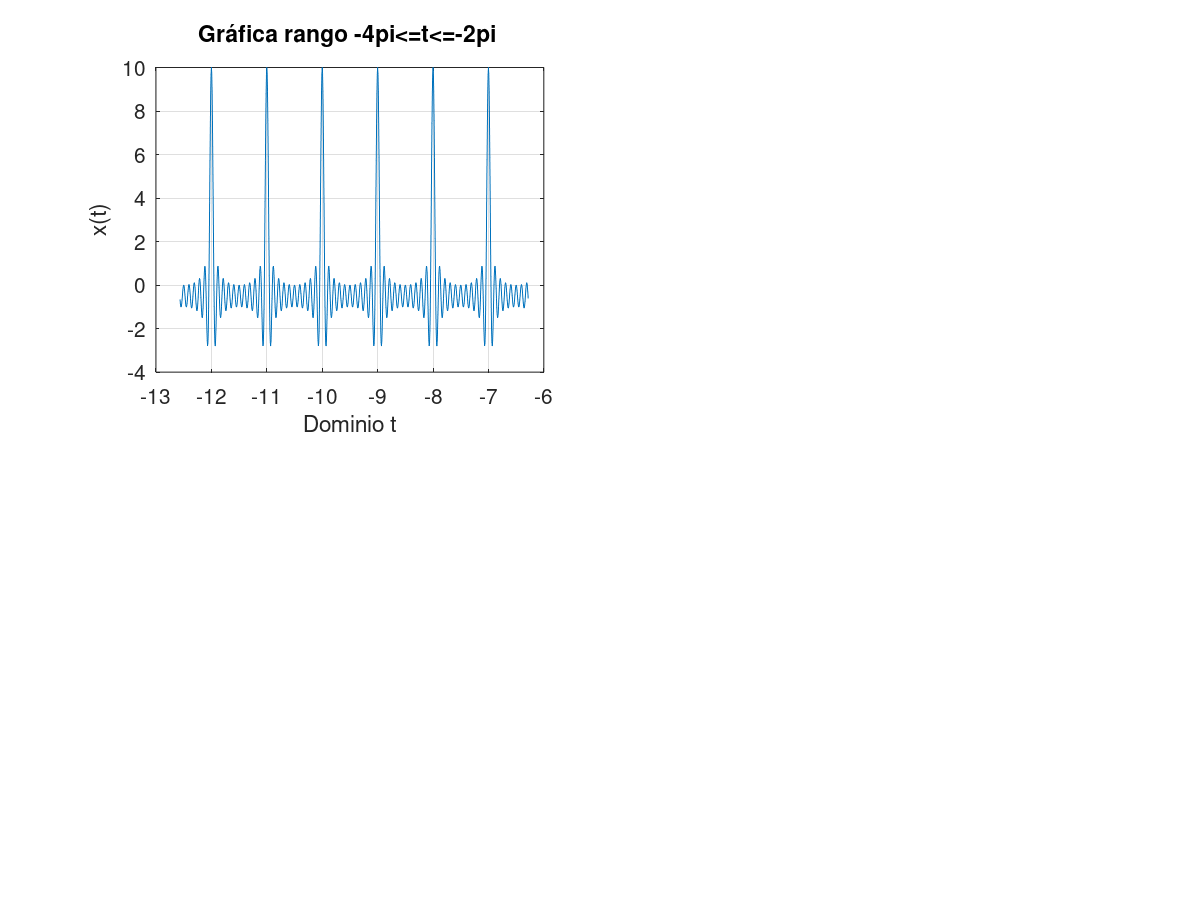
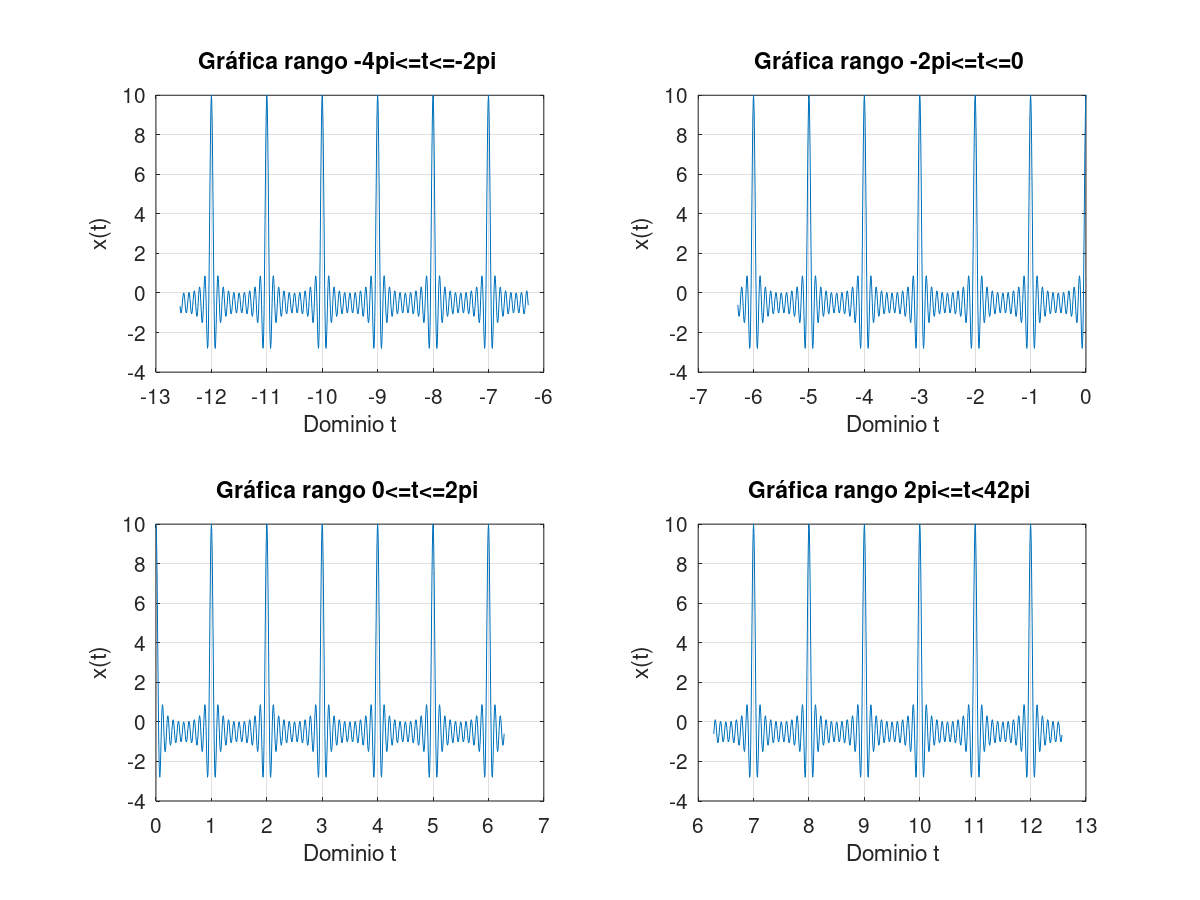
Ejercicio 4 correcto

diff --git a/html/prueba.html b/html/prueba.html
@@ -85,7 +85,6 @@ h2 a, h2 a:visited {
 <li><a href="#node2">Resolución del problema 1.2-2</a></li>
 <li><a href="#node3">Resoluciòn del problema 1.11-1</a></li>
 <li><a href="#node4">Ejercicio 4:</a></li>
-<li><a href="#node5">TEST</a></li>
 </ul>
 <h2><a id="node1"> 1.11 Working with functions.</a></h2>
 <p>Working with functions is fundamental to signals and systems applications. MATLAB provides several methods of defining and evaluating functions. An understanding and proficient use of these methods are therefore necessary and beneficial.</p>
@@ -336,9 +335,8 @@ grid on;</pre>
 <p>para cuatro rangos (figura 2x2). Los ejes deben mostrarse en el origen además de la edición de su preferencia.
 Procedimiento:</p>
 
-<p><b>Primer rango</b></p>
-
-<pre class="oct-code">subplot(2,2,1);
+<pre class="oct-code">clf;
+subplot(2,2,1);
 y=0;
 t=linspace(-4*pi,-2*pi,1000);
 <span class="keyword">for</span> k=1:10
@@ -351,11 +349,11 @@ grid on;
 ax = gca;
 xlabel(<span class="string">'Dominio t'</span>);
 ylabel(<span class="string">'x(t)'</span>);
-title(<span class="string">'Gráfica rango -4pi&lt;=t&lt;=-2pi '</span>);</pre>
-<img src="prueba-13.png" alt="prueba-13.png">
-<p><b>Segundo rango</b></p>
+title(<span class="string">'Gráfica rango -4pi&lt;=t&lt;=-2pi '</span>);
 
-<pre class="oct-code">subplot(2,2,2);
+
+
+subplot(2,2,2);
 y=0;
 t=linspace(-2*pi,0,1000);
 <span class="keyword">for</span> k=1:10
@@ -369,11 +367,11 @@ ax = gca;
 xlabel(<span class="string">'Dominio t'</span>);
 ylabel(<span class="string">'x(t)'</span>);
 
-title(<span class="string">'Gráfica rango -2pi&lt;=t&lt;=0 '</span>);</pre>
-<img src="prueba-14.png" alt="prueba-14.png">
-<p><b>Tercer rango</b></p>
+title(<span class="string">'Gráfica rango -2pi&lt;=t&lt;=0 '</span>);
 
-<pre class="oct-code">subplot(2,2,3);
+
+
+subplot(2,2,3);
 y=0;
 t=linspace(0,2*pi,1000);
 <span class="keyword">for</span> k=1:10
@@ -386,11 +384,11 @@ grid on;
 ax = gca;
 xlabel(<span class="string">'Dominio t'</span>);
 ylabel(<span class="string">'x(t)'</span>);
-title(<span class="string">'Gráfica rango 0&lt;=t&lt;=2pi '</span>);</pre>
-<img src="prueba-15.png" alt="prueba-15.png">
-<p><b>Cuarto rango</b></p>
+title(<span class="string">'Gráfica rango 0&lt;=t&lt;=2pi '</span>);
 
-<pre class="oct-code">subplot(2,2,4);
+
+
+subplot(2,2,4);
 y=0;
 t=linspace(2*pi,4*pi,1000);
 <span class="keyword">for</span> k=1:10
@@ -404,32 +402,7 @@ ax = gca;
 xlabel(<span class="string">'Dominio t'</span>);
 ylabel(<span class="string">'x(t)'</span>);
 title(<span class="string">'Gráfica rango 2pi&lt;=t&lt;42pi '</span>);</pre>
-<img src="prueba-16.png" alt="prueba-16.png"><h2><a id="node5">TEST</a></h2>
-<pre class="oct-code">clf;
- x = 0:10;
- ax(1) = subplot (221);
- set (ax(1), <span class="string">"tag"</span>, <span class="string">"1"</span>);
- plot (x, rand (3, 11));
- title (<span class="string">"x &amp; y labels &amp; ticklabels"</span>);
- xlabel xlabel;
- ylabel ylabel;
- ax(2) = subplot (222);
- set (ax(2), <span class="string">"tag"</span>, <span class="string">"2"</span>);
- plot (x, rand (3, 11));
- title (<span class="string">"no labels"</span>);
- axis (<span class="string">"nolabel"</span>,<span class="string">"tic"</span>);
- ax(3) = subplot (223);
- set (ax(3), <span class="string">"tag"</span>, <span class="string">"3"</span>);
- plot (x, rand (3, 11));
- title (<span class="string">"no labels"</span>);
- axis (<span class="string">"nolabel"</span>,<span class="string">"tic"</span>);
- ax(4) = subplot (224);
- set (ax(4), <span class="string">"tag"</span>, <span class="string">"4"</span>);
- plot (x, rand (3, 11));
- title (<span class="string">"x &amp; y labels &amp; ticklabels"</span>);
- xlabel xlabel;
- ylabel ylabel;</pre>
-<img src="prueba-17.png" alt="prueba-17.png">
+<img src="prueba-13.png" alt="prueba-13.png">
 <footer>
 <hr>
 <a href="https://www.octave.org">Published with GNU Octave 5.2.0</a>
@@ -747,8 +720,8 @@ grid on;
 % para cuatro rangos (figura 2x2). Los ejes deben mostrarse en el origen además de la edición de su preferencia.
 % Procedimiento:
 %
-% *Primer rango*
 
+clf;
 subplot(2,2,1);
 y=0;
 t=linspace(-4*pi,-2*pi,1000);
@@ -764,8 +737,6 @@ xlabel('Dominio t');
 ylabel('x(t)');
 title('Gráfica rango -4pi<=t<=-2pi ');
 
-%%
-% *Segundo rango*
 
 
 subplot(2,2,2);
@@ -784,8 +755,6 @@ ylabel('x(t)');
 
 title('Gráfica rango -2pi<=t<=0 ');
 
-%%
-% *Tercer rango*
 
 
 subplot(2,2,3);
@@ -803,8 +772,7 @@ xlabel('Dominio t');
 ylabel('x(t)');
 title('Gráfica rango 0<=t<=2pi ');
 
-%%
-% *Cuarto rango*
+
 
 subplot(2,2,4);
 y=0;
@@ -820,34 +788,6 @@ ax = gca;
 xlabel('Dominio t');
 ylabel('x(t)');
 title('Gráfica rango 2pi<=t<42pi ');
-
-
-%% TEST
-
-clf;
- x = 0:10;
- ax(1) = subplot (221);
- set (ax(1), "tag", "1");
- plot (x, rand (3, 11));
- title ("x & y labels & ticklabels");
- xlabel xlabel;
- ylabel ylabel;
- ax(2) = subplot (222);
- set (ax(2), "tag", "2");
- plot (x, rand (3, 11));
- title ("no labels");
- axis ("nolabel","tic");
- ax(3) = subplot (223);
- set (ax(3), "tag", "3");
- plot (x, rand (3, 11));
- title ("no labels");
- axis ("nolabel","tic");
- ax(4) = subplot (224);
- set (ax(4), "tag", "4");
- plot (x, rand (3, 11));
- title ("x & y labels & ticklabels");
- xlabel xlabel;
- ylabel ylabel;
 ##### SOURCE END #####
 -->
 </body>

diff --git a/prueba.m b/prueba.m
@@ -309,8 +309,8 @@ grid on;
 % para cuatro rangos (figura 2x2). Los ejes deben mostrarse en el origen además de la edición de su preferencia.
 % Procedimiento:
 %
-% *Primer rango*
 
+clf;
 subplot(2,2,1);
 y=0;
 t=linspace(-4*pi,-2*pi,1000);
@@ -326,8 +326,6 @@ xlabel('Dominio t');
 ylabel('x(t)');
 title('Gráfica rango -4pi<=t<=-2pi ');
 
-%% 
-% *Segundo rango*
 
 
 subplot(2,2,2);
@@ -346,8 +344,6 @@ ylabel('x(t)');
 
 title('Gráfica rango -2pi<=t<=0 ');
 
-%%
-% *Tercer rango*
 
 
 subplot(2,2,3);
@@ -365,8 +361,7 @@ xlabel('Dominio t');
 ylabel('x(t)');
 title('Gráfica rango 0<=t<=2pi ');
 
-%%
-% *Cuarto rango*
+
 
 subplot(2,2,4);
 y=0;
@@ -382,31 +377,3 @@ ax = gca;
 xlabel('Dominio t');
 ylabel('x(t)');
 title('Gráfica rango 2pi<=t<42pi ');
-
-
-%% TEST
-
-clf;
- x = 0:10;
- ax(1) = subplot (221);
- set (ax(1), "tag", "1");
- plot (x, rand (3, 11));
- title ("x & y labels & ticklabels");
- xlabel xlabel;
- ylabel ylabel;
- ax(2) = subplot (222);
- set (ax(2), "tag", "2");
- plot (x, rand (3, 11));
- title ("no labels");
- axis ("nolabel","tic");
- ax(3) = subplot (223);
- set (ax(3), "tag", "3");
- plot (x, rand (3, 11));
- title ("no labels");
- axis ("nolabel","tic");
- ax(4) = subplot (224);
- set (ax(4), "tag", "4");
- plot (x, rand (3, 11));
- title ("x & y labels & ticklabels");
- xlabel xlabel;
- ylabel ylabel;
